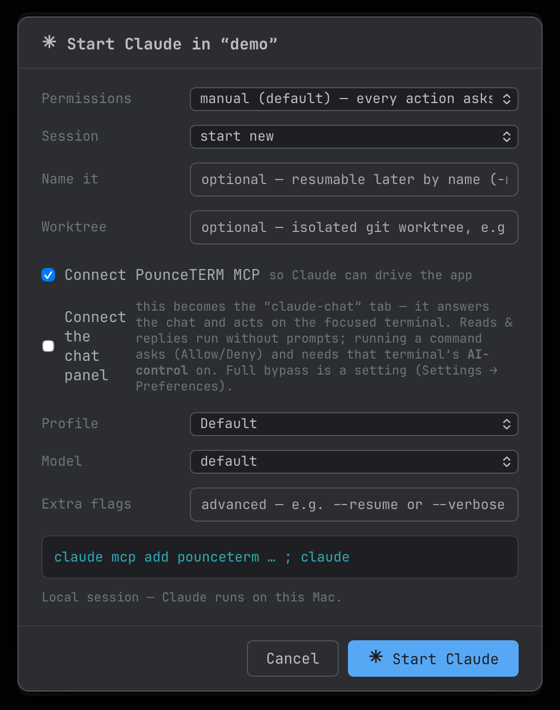
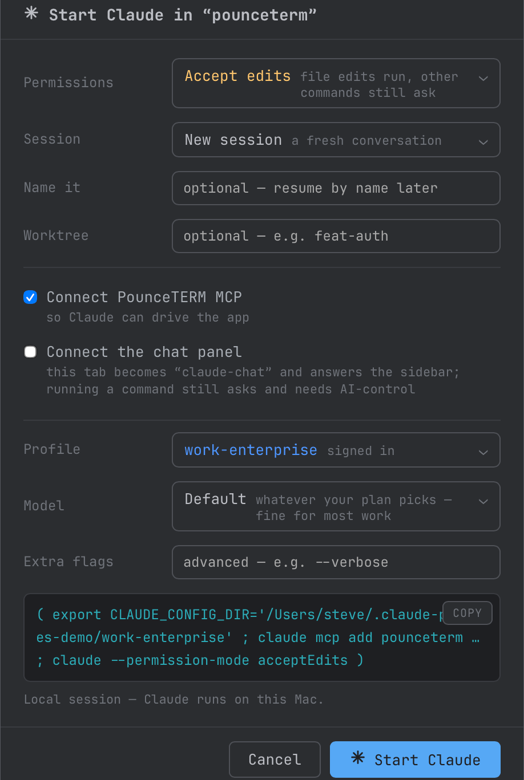
0.7.13: path links + the right-click path menu, history/private cards, refreshed launch-panel shots
Docs and What's New regenerated from the app (23 articles, 25 releases).

Content:
- terminal: "Copy that just works" is now "Copy, and every path is a link"
  — folders, extensionless files and dotfiles underline, ⌘-click takes the
  obvious action, right-click opens the menu; right-click copy takes the
  whole selection. New "History you control" card for 0.7.12's history
  delete and private terminals, which the site had never covered.
- claude: the launch panel's colour-coded pickers (risk on Permissions,
  identity everywhere else), the remembered last-launch, and per-profile
  colours.
- home: a path-links card and a history card.

Shots (all captured from the released 0.7.13 build on a sanitized demo
profile — demo identities only): new path-menu, permissions and
profiles-list; refreshed start-claude and start-dialog.

Claude-Session: https://claude.ai/code/session_01N4hSUCvRRiKp2gfnRiMgMo

diff --git a/public/docs.html b/public/docs.html
@@ -60,7 +60,7 @@
 </article>
 <article class="doc" id="preview-tab" data-tags="preview markdown mermaid plan viewer read-only pouncepad">
 <h2>Preview tab: a browser for Markdown</h2>
-<p class="wiki-p">Claude writes plans, specs, and reviews as Markdown. The Preview tab renders them — Markdown, tables, code, and Mermaid diagrams — right beside the terminal that produced them. It is READ-ONLY by design: PounceTERM views, PouncePad edits.</p><h3 class="wiki-h">Three ways in (no file browser needed)</h3><ul class="wiki-ul"><li>CMD-CLICK A PATH in any terminal — Claude prints &quot;Wrote docs/plan.md&quot;, you hold ⌘ and click it. Paths are checked against the disk first, so only real files underline.</li><li>CLAUDE OPENS IT — the preview_file MCP tool lets Claude pop the rendered plan up when it finishes writing (it's on the chat's safe list; read-only).</li><li>⌘O — the classic file dialog, for everything else.</li></ul><h3 class="wiki-h">In the tab</h3><ul class="wiki-ul"><li>Rendered ⇄ Source toggle — rendered by default; Source shows the raw text for copy/paste, like view-source in a browser.</li><li>LIVE RELOAD — the tab watches the file and re-renders whenever it changes (the dot pulses). That means ANY editor closes the loop: click &quot;Open in PouncePad&quot;, edit, save, and the preview updates itself — same for vim in the tab next door, or Claude appending to the file while you read it.</li><li>Open in PouncePad — the one edit path. Nothing in the Preview tab can modify a file.</li><li>Plain-text files open straight to Source view. Files over 2 MB show the first 2 MB with a note. Images and media belong to the SFTP viewer.</li></ul><h3 class="wiki-h">Why read-only</h3><p class="wiki-p">It keeps the family honest: one app per job. The moment you need to change the file, PouncePad (or vim in the tab next door) is one click away.</p>
+<p class="wiki-p">Claude writes plans, specs, and reviews as Markdown. The Preview tab renders them — Markdown, tables, code, and Mermaid diagrams — right beside the terminal that produced them. It is READ-ONLY by design: PounceTERM views, PouncePad edits.</p><h3 class="wiki-h">Three ways in (no file browser needed)</h3><ul class="wiki-ul"><li>CMD-CLICK A PATH in any terminal — Claude prints &quot;Wrote docs/plan.md&quot;, you hold ⌘ and click it. Paths are checked against the disk first, so only things that really exist underline. ⌘-click opens text we can render here; a folder or a binary goes to Finder instead. Right-click the same link for the full menu (see &quot;Copying from a remote program &amp; clickable links&quot;).</li><li>CLAUDE OPENS IT — the preview_file MCP tool lets Claude pop the rendered plan up when it finishes writing (it's on the chat's safe list; read-only).</li><li>⌘O — the classic file dialog, for everything else.</li></ul><h3 class="wiki-h">In the tab</h3><ul class="wiki-ul"><li>Rendered ⇄ Source toggle — rendered by default; Source shows the raw text for copy/paste, like view-source in a browser.</li><li>LIVE RELOAD — the tab watches the file and re-renders whenever it changes (the dot pulses). That means ANY editor closes the loop: click &quot;Open in PouncePad&quot;, edit, save, and the preview updates itself — same for vim in the tab next door, or Claude appending to the file while you read it.</li><li>Open in PouncePad — the one edit path. Nothing in the Preview tab can modify a file.</li><li>Plain-text files open straight to Source view. Files over 2 MB show the first 2 MB with a note. Images and media belong to the SFTP viewer.</li></ul><h3 class="wiki-h">Why read-only</h3><p class="wiki-p">It keeps the family honest: one app per job. The moment you need to change the file, PouncePad (or vim in the tab next door) is one click away.</p>
 <div class="doc-tags"><span>preview</span><span>markdown</span><span>mermaid</span><span>plan</span><span>viewer</span><span>read-only</span><span>pouncepad</span></div>
 </article>
 <article class="doc" id="session-stats" data-tags="stats session activity memory cpu usage charts">
@@ -107,7 +107,7 @@
 <article class="doc" id="copy-remote" data-tags="copy clipboard osc52 osc 52 url link paste login tmux yank">
 <h2>Copying from a remote program &amp; clickable links</h2>
 <h3 class="wiki-h">Copy from a remote program (OSC 52)</h3><p class="wiki-p">When something running on a remote host copies to the clipboard — a Claude Code login URL, a tmux or vim yank — it lands straight in your Mac clipboard. Works over plain SSH with zero setup.</p><p class="wiki-p">Through tmux it works when tmux's set-clipboard is on or external (the default). If a copy inside tmux doesn't reach your Mac, add to the remote ~/.tmux.conf:</p><pre class="wiki-code">set -g set-clipboard on
-</pre><p class="wiki-p">For safety, a remote host can never READ your Mac clipboard — it can only write to it.</p><h3 class="wiki-h">Clickable URLs</h3><p class="wiki-p">⌘-click any URL in the terminal to open it in your browser. So a Claude auth URL opens in Safari without copying at all — even through tmux.</p><h3 class="wiki-h">Local copy/paste</h3><p class="wiki-p">Selecting text copies it to the clipboard automatically (copy-on-select) — so a drag-selection always lands whole, no extra step. Right-click also copies the selection (or pastes when there's none), and ⌘C / ⌘V work too. Turn copy-on-select off in Settings → Preferences.</p>
+</pre><p class="wiki-p">For safety, a remote host can never READ your Mac clipboard — it can only write to it.</p><h3 class="wiki-h">Clickable URLs</h3><p class="wiki-p">⌘-click any URL in the terminal to open it in your browser. So a Claude auth URL opens in Safari without copying at all — even through tmux.</p><h3 class="wiki-h">Clickable file paths</h3><p class="wiki-p">Any path in terminal output is a link once PounceTERM has checked it exists — files, folders, extensionless things like Makefile or scripts/build, dotfiles like ~/.zshrc. Relative paths resolve against that tab's folder. Prose that merely looks like a path never underlines.</p><ul class="wiki-ul"><li>⌘-CLICK does the obvious thing: Markdown and other text open in the Preview tab, everything else — folders, binaries, images — opens in Finder.</li><li>RIGHT-CLICK THE LINK for the rest: Preview here, Open with default app, Reveal in Finder, Edit in PouncePad, Copy path. Options that make no sense are left out, so a folder offers Open in Finder and Copy path.</li></ul><h3 class="wiki-h">Local copy/paste</h3><p class="wiki-p">Selecting text copies it to the clipboard automatically (copy-on-select) — so a drag-selection always lands whole, no extra step. Right-click away from a link also copies the selection (or pastes when there's none), and it takes the WHOLE selection — no more losing a careful drag to the word under the cursor. ⌘C / ⌘V work too. Turn copy-on-select off in Settings → Preferences.</p>
 <div class="doc-tags"><span>copy</span><span>clipboard</span><span>osc52</span><span>osc 52</span><span>url</span><span>link</span><span>paste</span><span>login</span><span>tmux</span><span>yank</span></div>
 </article>
 <article class="doc" id="ai-provider" data-tags="ai provider openai anthropic claude google gemini ollama chat api key model gateway byo">

diff --git a/public/claude.html b/public/claude.html
@@ -30,6 +30,7 @@
 
   <h2 class="prompt-h" id="start">Start Claude anywhere</h2>
   <p>Every tab can become a Claude tab. The dialog offers all six of Claude Code's <b>permission modes</b> (manual, auto, accept edits, plan, don't ask, bypass), <b>session controls</b> (continue, the --resume picker, name it for later), an isolated <b>--worktree</b> launch for parallel agents, a <b>Profile</b> (which identity — see below), the model, extra flags, and one-click MCP connect so the new Claude can drive PounceTERM itself. A live preview shows the exact command before anything runs. On an SSH tab, the command runs on the remote host — where your shell actually is.</p>
+  <p>The pickers are <b>colour-coded</b>, and the colour means two different things on purpose: on Permissions it is <b>risk</b> — green asks, amber acts on its own within limits, red skips every check — and everywhere else it is <b>identity</b>, so a profile keeps the same colour here, in the profile list, and in the status bar. Each choice carries a line of plain guidance (what a model is good for, what "don\u2019t ask" actually does). The panel remembers how you last launched Claude — permissions, session, model, toggles, flags, profile — and deliberately forgets the session name and worktree, which would be wrong to reuse silently.</p>
   <div class="path" role="img" aria-label="How to open it: right-click any tab, choose Start Claude here, and this dialog appears">
     <span class="path-chip">right-click any tab</span>
     <span class="path-arrow">──▶</span>
@@ -38,19 +39,21 @@
     <span class="path-chip path-hi">this dialog</span>
   </div>
   <figure class="shot shot-dialog">
-    <img src="/shots/start-dialog.png" data-full="/shots/start-claude.png" alt="The Start Claude dialog up close: bypass permissions, continue last session, Connect PounceTERM MCP, chat panel, Profile and Model dropdowns, and the live command preview" loading="lazy" width="610" height="590">
+    <img src="/shots/start-dialog.png" data-full="/shots/start-claude.png" alt="The Start Claude dialog up close: Accept edits permissions in amber, New session, Connect PounceTERM MCP, the work-enterprise profile in its colour, Model, and the live command preview" loading="lazy" width="524" height="780">
     <figcaption>the Start dialog — profile, model, permissions, and the exact command it will run</figcaption>
   </figure>
+  <figure class="shot"><img src="/shots/permissions.png" alt="The Permissions picker open: Manual and Plan in green, Auto and Accept edits in amber, Bypass everything in red, each with a line of guidance" loading="lazy" width="1600" height="1028"><figcaption>colour is risk — green asks, amber acts, red skips every check</figcaption></figure>
   <p class="doclink">Read the docs → <a href="/docs#start-claude">Starting Claude in a tab</a></p>
 
   <h2 class="prompt-h" id="profiles">Claude profiles — identities per tab</h2>
   <div class="frow rev">
     <div>
       <p>A profile is an isolated Claude Code home: its own login, <b>organization choice</b>, history, and settings, in its own folder under <code>~/.claude-profiles</code>. One email can belong to a personal plan and several Enterprise orgs — make one profile per org, sign in once each, and every tab starts in exactly the identity you picked. Work-Claude and personal-Claude run <b>side by side</b>.</p>
-      <p>PounceTERM never touches credentials or the keychain; it only points Claude at a folder. The status bar reads <code>Claude · work-enterprise</code> while it runs, and the tab's right-click menu shows the live identity — verified against the actual process, not a guess.</p>
+      <p>PounceTERM never touches credentials or the keychain; it only points Claude at a folder. Every profile carries <b>its own colour</b> — one of eight, assigned when you create it and yours to change — and that colour follows it through the launch panel, the profile list and the status bar, so two identities are never confusable at a glance. The status bar reads <code>Claude · work-enterprise</code> while it runs, and the tab's right-click menu shows the live identity — verified against the actual process, not a guess.</p>
       <p class="doclink">Read the docs → <a href="/docs#claude-profiles">Claude profiles: separate accounts and orgs</a></p>
     </div>
     <figure class="shot"><img src="/shots/profiles.png" alt="Settings → Claude Profiles with its How-it-works guide: set-up steps, same email multiple organizations, good to know" loading="lazy" width="1600" height="1028"><figcaption>Settings → Claude Profiles — the guide ships in the app too</figcaption></figure>
+    <figure class="shot"><img src="/shots/profiles-list.png" alt="The Profiles tab: work-enterprise, personal and client-acme, each with its own colour swatch, Rename, Show in Finder and Remove" loading="lazy" width="1600" height="1028"><figcaption>one colour per identity — pick it, or let the app choose an unused one</figcaption></figure>
   </div>
   <p class="doclink" style="margin:18px 0 8px">watch it — two orgs, one email, running side by side:</p>
   <div data-scene="orgs"></div>
@@ -125,7 +128,7 @@
   <h2 class="prompt-h" id="preview">Read what Claude wrote — rendered</h2>
   <div class="frow">
     <div>
-      <p>Claude produces Markdown all day: plans, specs, reviews. The <b>Preview tab</b> renders it right beside the terminal that produced it — headings, tables, code, and <b>Mermaid diagrams</b> drawn. Three ways in and no file browser: <b>⌘-click the path</b> Claude just printed, press <b>⌘O</b>, or let Claude open it itself with the <code>preview_file</code> tool.</p>
+      <p>Claude produces Markdown all day: plans, specs, reviews. The <b>Preview tab</b> renders it right beside the terminal that produced it — headings, tables, code, and <b>Mermaid diagrams</b> drawn. Three ways in and no file browser: <b>⌘-click the path</b> Claude just printed, press <b>⌘O</b>, or let Claude open it itself with the <code>preview_file</code> tool. Every path Claude prints is a link — see <a href="/terminal#copy">the path menu</a> for what else you can do with one.</p>
       <p>It's read-only on purpose — PounceTERM views, PouncePad edits. But the tab watches the file, so the loop closes anyway: click <b>Open in PouncePad</b>, edit, save, and the rendered view updates itself. Same while Claude keeps writing. A Rendered ⇄ Source toggle gives you the raw text to copy.</p>
       <p class="doclink">Read the docs → <a href="/docs#preview-tab">Preview tab: a browser for Markdown</a></p>
     </div>

diff --git a/public/whatsnew.html b/public/whatsnew.html
@@ -29,8 +29,12 @@
   <p class="sub">Every release, newest first — the same changelog the app shows on launch. Update any time with <code>brew upgrade --cask pounceterm</code>.</p>
   <div style="margin-top:12px">
     <!-- GEN:releases -->
-<section class="wn wn-latest" id="v0-7-12">
-<h2>v0.7.12<span class="d">2026-08-30</span><span class="wn-badge">LATEST</span></h2>
+<section class="wn wn-latest" id="v0-7-13">
+<h2>v0.7.13<span class="d">2026-09-04</span><span class="wn-badge">LATEST</span></h2>
+<ul><li>Every path in your terminal is a link now — not just Markdown. Folders, extensionless files (Makefile, scripts/build), dotfiles like ~/.zshrc and binaries all underline once PounceTERM has checked they exist. ⌘-click still does the obvious thing: text we can render opens the Preview tab, anything else opens in Finder.</li><li>Right-click a path for everything else: Preview here, Open with default app, Reveal in Finder, Edit in PouncePad, Copy path — with the options that don't apply left out, so a folder just offers Open in Finder and Copy path. Right-click away from a link still copies your selection or pastes, exactly as before.</li><li>Right-click copy takes the whole selection. macOS terminals default to replacing your selection with the word under the cursor when you right-click outside it, so a careful drag could quietly become one word on the clipboard. It no longer does.</li></ul>
+</section>
+<section class="wn" id="v0-7-12">
+<h2>v0.7.12<span class="d">2026-08-30</span></h2>
 <ul><li>Delete a command from history — everywhere it lives. Hover any entry in the History rail for copy and trash buttons. Deleting tells you exactly what will go before it goes: how many copies are in PounceTERM's history, how many are in your shell's history file, and whether open terminals could write the line back. It removes every copy of that command (a secret with three older duplicates is still a secret), understands zsh's timestamped and multi-line entries, rewrites the file atomically and keeps its permissions. There is deliberately no backup file — one holding the secret you just deleted would defeat the point.</li><li>Private terminals. Right-click a tab → Private terminal, and that tab is not recorded: nothing enters PounceTERM's history, including commands Claude runs there, and the shell is told to stop writing its own history file. Past history still works — ↑ recalls everything as before — and the tab says plainly that it is private.</li><li>A launch panel you can read. Start Claude's chat option no longer squeezes its label into a column, the fields line up, and the command preview wraps so you can read all of it — with a Copy button. Permissions, Session, Model and Profile are now colour-coded pickers with a line of guidance each: colour means RISK on Permissions (green asks, amber acts alone, red skips every check) and IDENTITY on the rest. The panel also remembers how you last launched Claude — permissions, session, model, toggles, flags and profile — while deliberately forgetting the session name and worktree, which would be wrong to reuse silently.</li><li>Profiles have colours. Every Claude profile gets one of eight colours — a new profile takes the first unused one — and you can change it from a swatch in Settings → Claude Profiles. The colour follows the profile through the launch panel, the profile list and the status bar, so two identities are never confusable at a glance.</li><li>Focus, finally, everywhere. Closing a dialog or picking from a right-click menu now returns the keyboard to the terminal, so the next thing you type lands where you expect instead of nowhere.</li></ul>
 </section>
 <section class="wn" id="v0-7-11">

diff --git a/public/terminal.html b/public/terminal.html
@@ -44,9 +44,16 @@
   <p class="doclink">Read the docs → <a href="/docs#sftp">SFTP</a></p>
 
   </section>
-  <section class="sec-card" id="copy"><h2 class="prompt-h">Copy that just works</h2>
-  <p>Remote programs that copy via OSC 52 — a Claude login URL, a tmux or vim yank — land straight in your Mac clipboard, even through tmux. Copy-on-select is on by default, and ⌘-click opens any URL in your browser.</p>
-  <p class="doclink">Read the docs → <a href="/docs#copy-remote">Copying &amp; clickable links</a></p>
+  <section class="sec-card" id="copy"><h2 class="prompt-h">Copy, and every path is a link</h2>
+  <p>Remote programs that copy via OSC 52 — a Claude login URL, a tmux or vim yank — land straight in your Mac clipboard, even through tmux. Copy-on-select is on by default, and right-clicking away from a link copies the <b>whole selection</b> or pastes.</p>
+  <p>Anything in the output that exists on disk underlines: files, folders, extensionless things like <code>Makefile</code>, dotfiles, <code>~/</code> and relative paths alike. <b>⌘-click</b> takes the obvious action — text we can render opens the Preview tab, everything else opens in Finder — and <b>right-clicking the link</b> offers the rest: Preview here, Open with default app, Reveal in Finder, Edit in PouncePad, Copy path. Prose that merely looks like a path never underlines.</p>
+  <p class="doclink">Read the docs → <a href="/docs#copy-remote">Copying &amp; clickable links</a> · <a href="/docs#preview-tab">Preview tab</a></p>
+
+  </section>
+  <section class="sec-card" id="history"><h2 class="prompt-h">History you control</h2>
+  <p>Hover any entry in the History rail for copy and trash. Deleting tells you what will go before it goes — how many copies PounceTERM holds, how many are in your shell's history file, whether an open terminal could write it back — then removes <em>every</em> copy, rewrites the file atomically and keeps its permissions. There is deliberately no backup file; one holding the secret you just deleted would defeat the point.</p>
+  <p>Or never record it: right-click a tab → <b>Private terminal</b>. Nothing from that tab enters PounceTERM's history, including commands Claude runs there, and the shell is told to stop writing its own. Past history still works — ↑ recalls everything as before.</p>
+  <p class="doclink">Read the docs → <a href="/docs#history-privacy">Deleting history, and private terminals</a></p>
 
   </section>
   <section class="sec-card" id="themes"><h2 class="prompt-h">Themes and every font you own</h2>
@@ -68,6 +75,7 @@
   </div>
   <h2 class="prompt-h">screencapture — in the app</h2>
   <div class="frow">
+    <figure class="shot"><img src="/shots/path-menu.png" alt="A path in terminal output underlined, with the right-click menu open: Preview here, Open with default app, Reveal in Finder, Edit in PouncePad, Copy path" loading="lazy" width="1600" height="1028"><figcaption>right-click a path — preview, Finder, PouncePad, copy</figcaption></figure>
     <figure class="shot"><img src="/shots/themes.png" alt="The Themes settings page: seventeen theme preview cards from Rider Dark and Dracula to Homebrew, Retro Terminal, and Amber" loading="lazy" width="1600" height="1028"><figcaption>Themes — pick by preview, applies instantly</figcaption></figure>
     <figure class="shot"><img src="/shots/sync.png" alt="The Sync settings page: Connect to 1Password, vault choice, Share AI keys, and Push/Pull/Reset buttons" loading="lazy" width="1600" height="1028"><figcaption>Sync — your setup, pushed to 1Password</figcaption></figure>
   </div>

diff --git a/public/index.html b/public/index.html
@@ -62,7 +62,8 @@
     <a class="t-card" href="/terminal#tabs"><h4>Tabs, groups &amp; splits</h4><p>Color groups, tiled layouts, broadcast-to-group. A fleet of agents, organized.</p></a>
     <a class="t-card" href="/terminal#ssh"><h4>SSH + encrypted vault</h4><p>Hosts, identities, known keys — AES-256-GCM, key in your macOS Keychain.</p></a>
     <a class="t-card" href="/terminal#sftp"><h4>Built-in SFTP</h4><p>Dual-pane file browser with a Quick-Look-style viewer. Reuses the SSH connection.</p></a>
-    <a class="t-card" href="/terminal#copy"><h4>Copy that just works</h4><p>OSC 52 from tmux/vim/Claude lands in your Mac clipboard. ⌘-click opens links.</p></a>
+    <a class="t-card" href="/terminal#copy"><h4>Copy &amp; path links</h4><p>OSC 52 lands in your Mac clipboard; every real path underlines — ⌘-click, or right-click for the menu.</p></a>
+    <a class="t-card" href="/terminal#history"><h4>History you control</h4><p>Delete a command everywhere it lives — ours and your shell's — or make a tab private.</p></a>
     <a class="t-card" href="/terminal#themes"><h4>Themes &amp; every font</h4><p>Phosphor to pastel, plus every monospace font installed on your Mac.</p></a>
     <a class="t-card" href="/terminal#sync"><h4>1Password sync</h4><p>Push AI keys, theme, and fonts to a vault; pull them on your other Mac.</p></a>
   </div>
